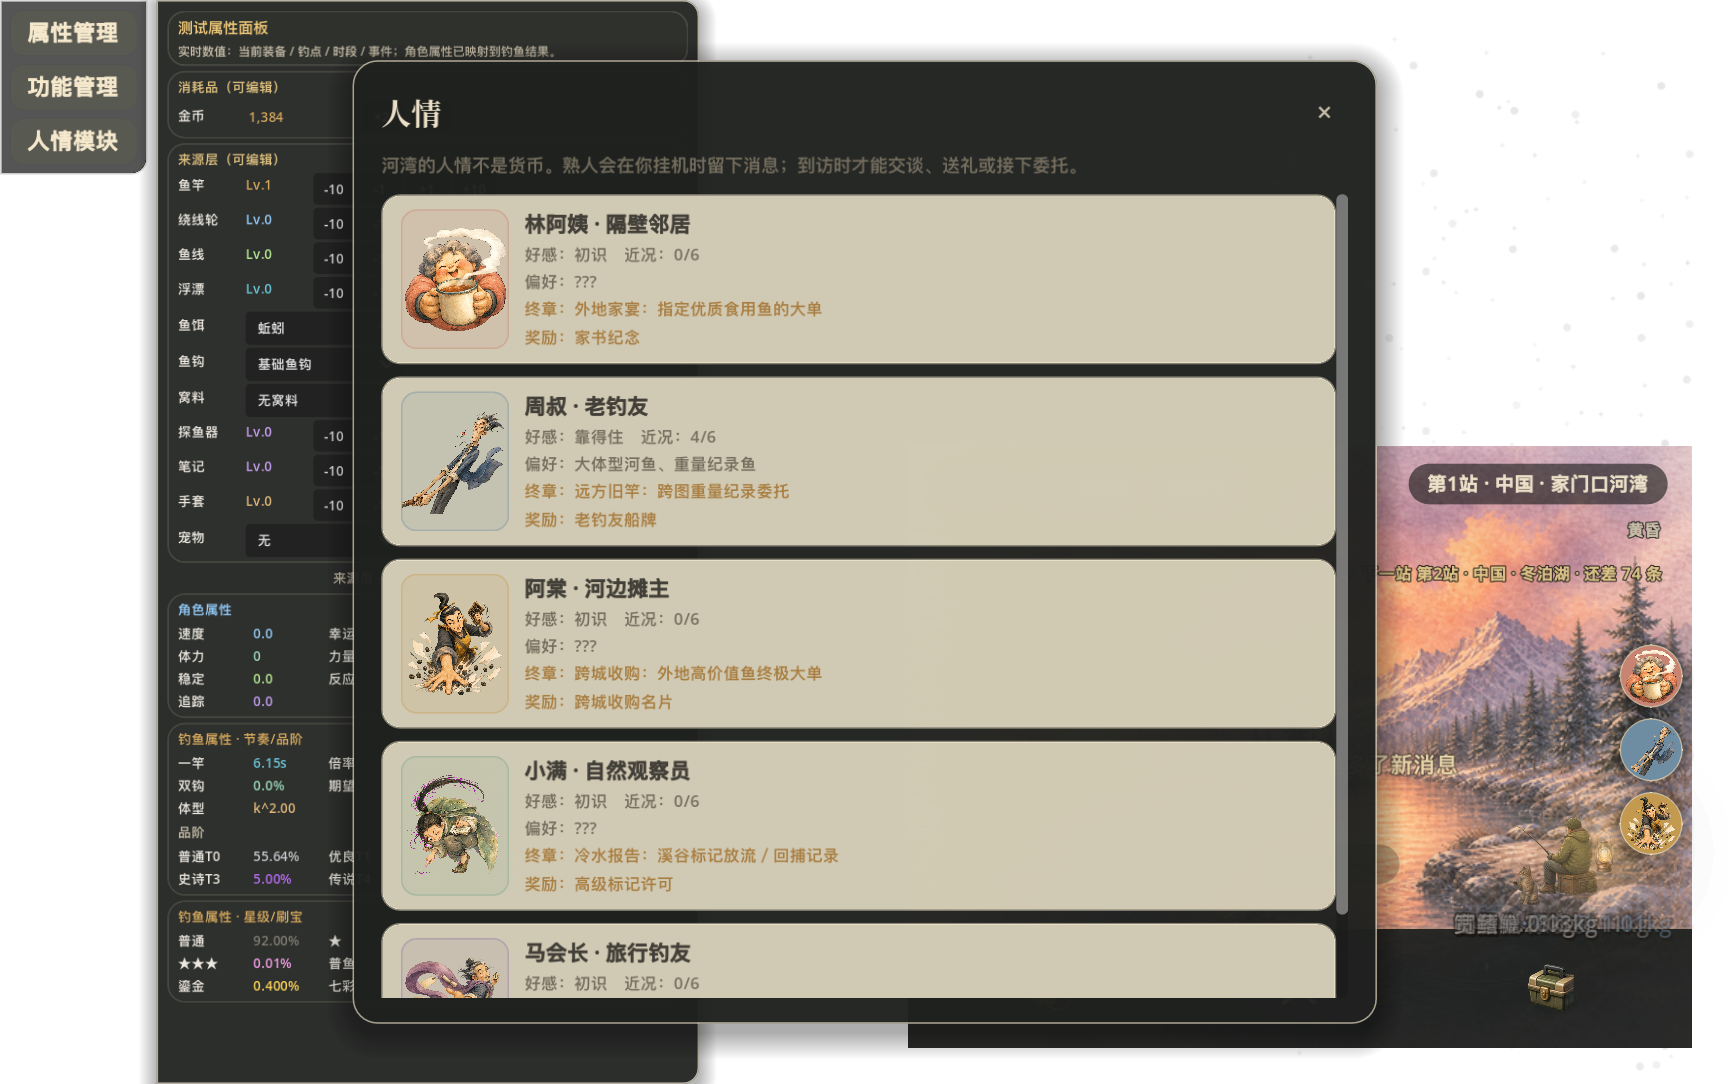
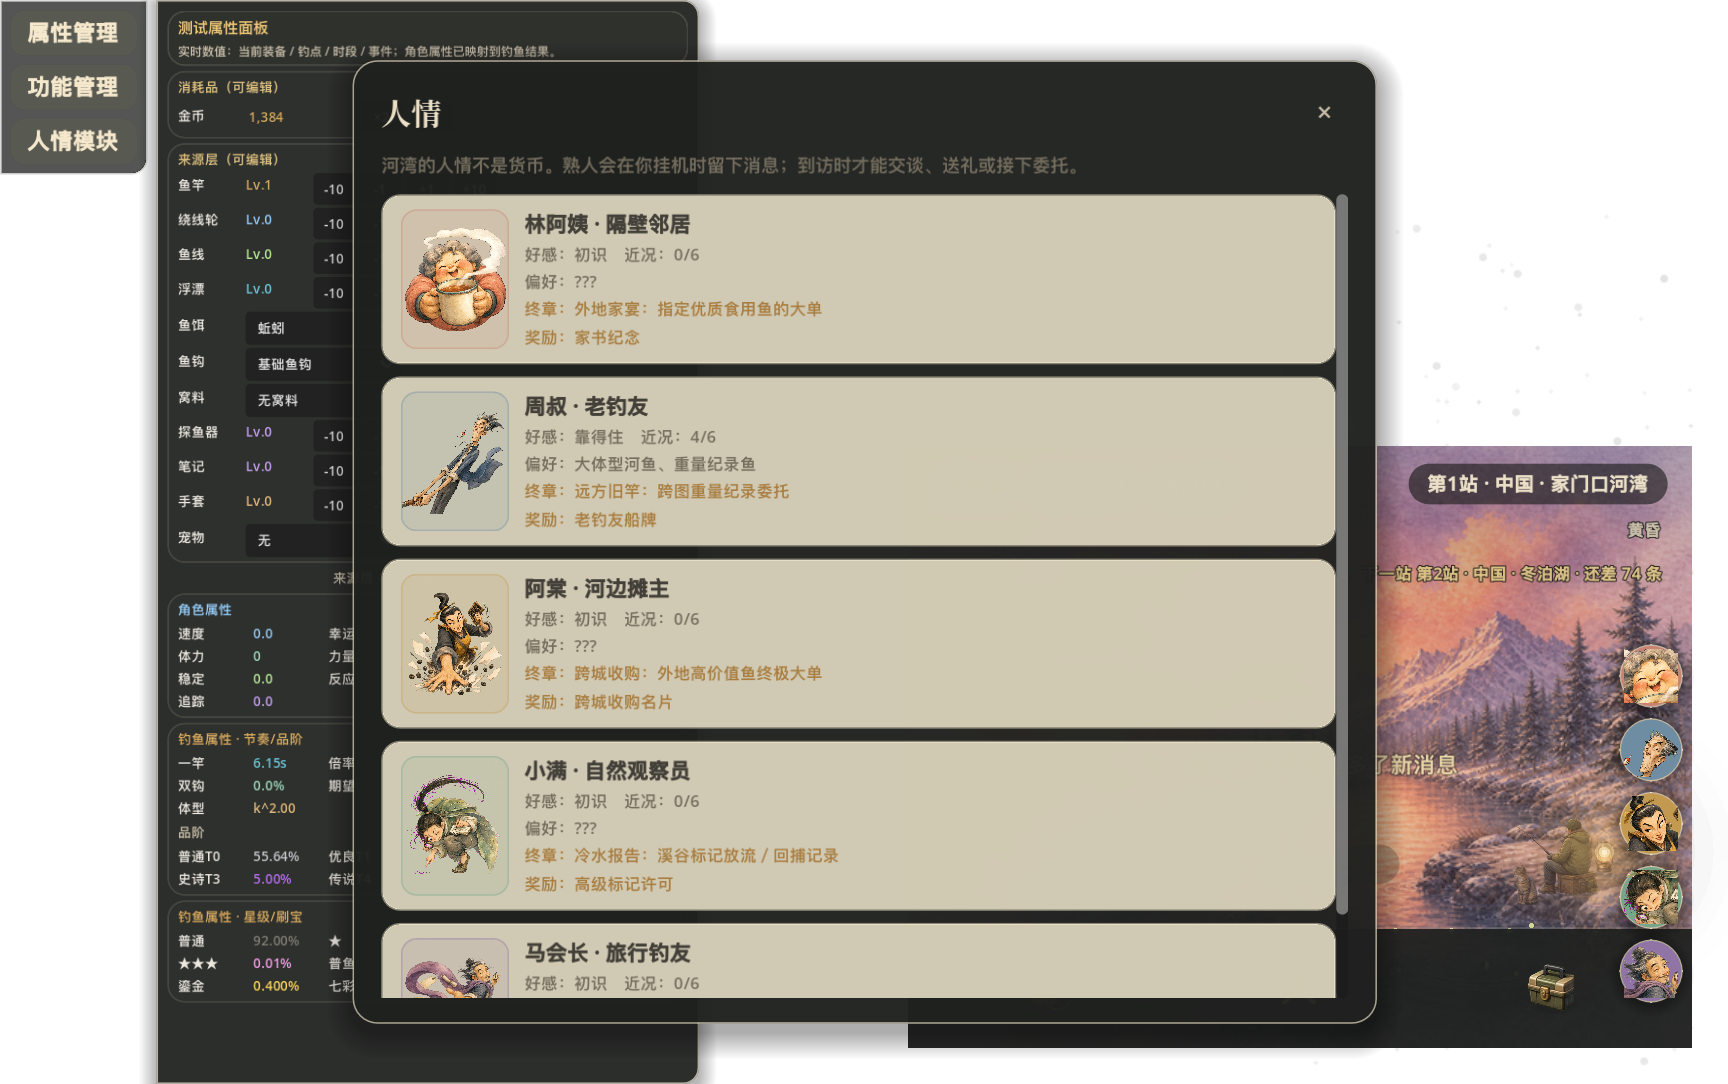
优化到访头像裁切与第一人称对话
让小圆框优先识别人脸，并把到访选择改成简短真实回复。

Changed region(s): [[0.7812, 0.3958, 1.0, 0.9437]]

diff --git a/ROADMAP.md b/ROADMAP.md
@@ -52,7 +52,7 @@
 - [x] **角色属性二级映射接入结算**(旧装备仍是主轴;属性软上限修正周期/品阶/星级/变体/双钩/体型,开发面板同步展示最终指标)✅ 2026-07-08
 - [x] **装备/金币大数化**(经济量改 double 浮点大数,极端值钳制到 `1e300`;装备页/HUD 改 `K/M/B/T/Qa/Qi...` 短格式,不再用中文万/亿)✅ 2026-07-09
 - [x] **底部系统渐进开放**(开局只显示设置;3 条鱼开放鱼篓;卖鱼 300 开装备;装备消费 10K 开任务;默认钓点半图鉴开图鉴;第二钓点条件开地图;极品鱼开鱼缸;测试台可手动开关功能;存档 **v20**)✅ 2026-07-09
-- [x] **河湾人情簿（分阶段首版）**：五位 NPC 配置、独立七级好感存档、人情入口、总览、挂机到访队列、专属水彩头像／人情簿缩略图／到访对话头像、到访送礼、10 分钟单槽 Buff、偏好鱼委托、跨地点终章大单与调试面板均已接入（v21）；v22 改为每位 NPC 独立 3 小时排程；v23 补齐五条一次性终章永久标记；v24 加入初识到旧交共 30 条一次性人物事件、跨级顺序补读与分级事件池，普通委托改为只发金币、仅成功送礼提升好感；到访已重构为聊天记录、当前抉择与选择后反馈，长期资料归人情簿，偏好按好感三阶段揭示；头像或底栏 icon 缺失时均有文字占位，不再显示空白；后续继续扩写人物文本与三钓点联动效果。
+- [x] **河湾人情簿（分阶段首版）**：五位 NPC 配置、独立七级好感存档、人情入口、总览、挂机到访队列、专属水彩头像／人情簿缩略图／到访对话头像、到访送礼、10 分钟单槽 Buff、偏好鱼委托、跨地点终章大单与调试面板均已接入（v21）；v22 改为每位 NPC 独立 3 小时排程；v23 补齐五条一次性终章永久标记；v24 加入初识到旧交共 30 条一次性人物事件、跨级顺序补读与分级事件池，普通委托改为只发金币、仅成功送礼提升好感；到访已重构为聊天记录、当前抉择与选择后反馈，NPC 全程第一人称且玩家回复简短口语化，右侧圆形入口使用逐人头部裁切；长期资料归人情簿，偏好按好感三阶段揭示；头像或底栏 icon 缺失时均有文字占位，不再显示空白；后续继续扩写人物文本与三钓点联动效果。
 - [ ] **219 鱼美术补齐**(现 99 条有专属图标 → 缺 120;缺图自动回退品阶通用图标不崩)
 - [ ] **7 个新钓点背景图**(数据已配,缺干净底图;**其中雪线溪谷 mountain_stream / 下山进城 urban_pond 在退款窗口内可达,列入上架 DoD 必须有图**)
 - [x] **README 文案同步真实数字**(鱼 106→219、存档 v11→v12;钓点守 3 不虚报)✅ 2026-06-23

diff --git a/README.md b/README.md
@@ -89,7 +89,7 @@ godot --headless -s tools/balance_probe.gd
 左侧开发入口可直接打开属性面板、功能管理与人情模块；属性面板可编辑金币（翻倍/减半）、装备来源层与宠物状态；测试台可强制昼夜时段、钓鱼提速（×3/×10/即时）、改金币、+1/拉满装备与背包、绕线轮升降/设级、给指定鱼（鱼种×星级×变体）、
 样本包/清空鱼篓、解锁全部钓点/点亮全图鉴、召唤鱼贩/重置订单/充能专注、立即触发随机事件；人情模块可召唤指定 NPC 的闲谈/委托/Buff/终章事件、打开人情簿或到访面板、mock 偏好鱼与终章鱼、调整好感等级、重置或完成终章。
 
-河湾五位 NPC 已使用专属水彩人物图：右侧到访栏显示主题色圆形头像，人情簿显示动作缩略图，到访面板使用紧凑对话头像；资源缺失时安全回退到带姓名首字的主题色占位，底部人情菜单缺少专属 icon 时显示「人」字占位，不留空白入口。到访页采用聊天记录式剧情与当前抉择，选择后停留显示 NPC 反馈；好感、近况、终章和偏好资料集中在人情簿，偏好按好感 0–1／2–3／4–6 三阶段显示未知／模糊线索／完整规则。
+河湾五位 NPC 已使用专属水彩人物图：右侧到访栏从原图单独裁切头部并显示为主题色圆形头像，人情簿显示动作缩略图，到访面板使用紧凑对话头像；资源缺失时安全回退到带姓名首字的主题色占位，底部人情菜单缺少专属 icon 时显示「人」字占位，不留空白入口。到访页采用聊天记录式剧情与当前抉择，NPC 剧情、闲谈和结算均以第一人称发言，玩家按钮使用简短的真实回复，选择后停留显示 NPC 反馈；好感、近况、终章和偏好资料集中在人情簿，偏好按好感 0–1／2–3／4–6 三阶段显示未知／模糊线索／完整规则。
 
 **仅本会话生效、不写档**：进入即冻结磁盘存档，退出（切回游玩模式）从磁盘重载正式档、丢弃全部测试改动；
 默认重启回到正式档；如需启动即进入测试，可在 `main.tscn` 的 `Main` 节点 Inspector 勾选 `test_mode`。正式存档永不被测试数据污染，HUD 右上常驻「🧪测试」角标提示当前在测试模式。

diff --git a/BACKLOG.md b/BACKLOG.md
@@ -6,6 +6,8 @@
 > 改愿景/路线时,来这里**写一句为什么**。
 
 ---
+
+- **2026-07-20** 到访入口的五张圆形头像改为按人物配置头部裁切，不再把整张动作立绘压进小圆框；到访剧情、闲谈、帮忙和结算反馈统一改成 NPC 第一人称，玩家抉择改为“好，我记住了。”“给你看看。”等短句。**为什么**：小圆框应优先识别人脸，到访页则应像双方正在真实交谈，而不是事件标题、旁白和系统操作按钮。
 ## 🧊 想法冰箱(Icebox —— 想到就记,别丢,也别马上做)
 
 > 等当前里程碑做完,再决定捞哪条进 ROADMAP。每条可标 `[大/中/小]` 体量。
